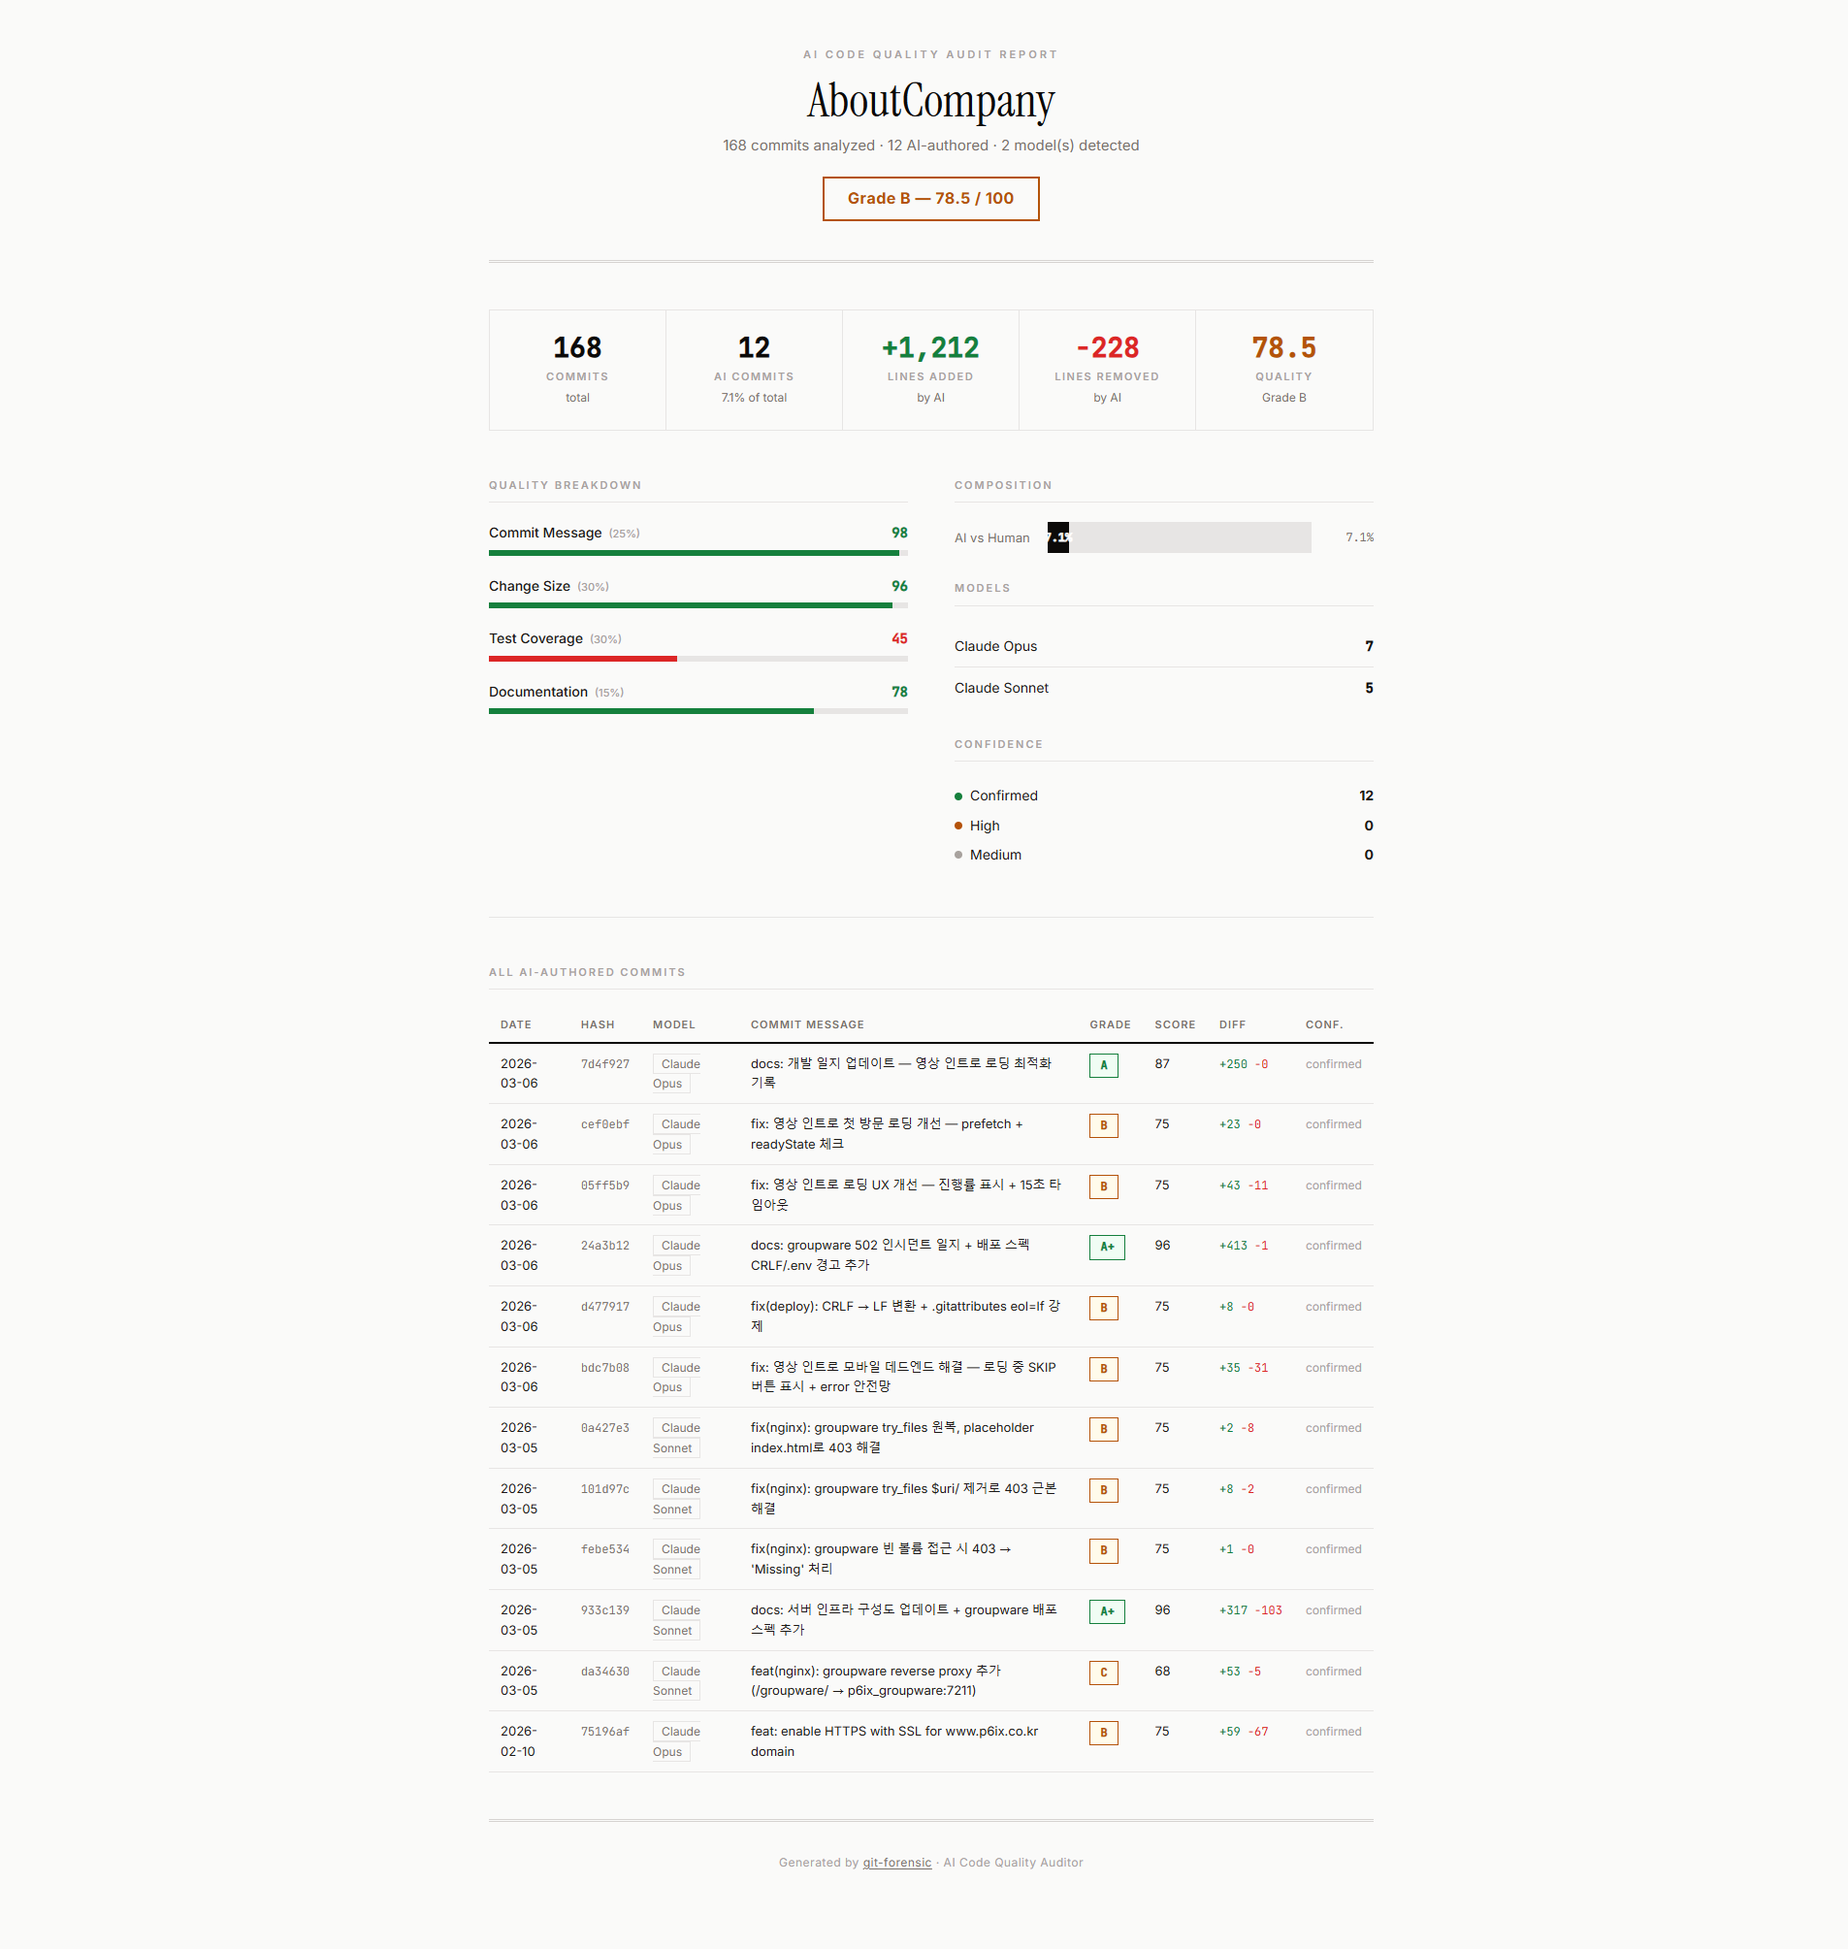
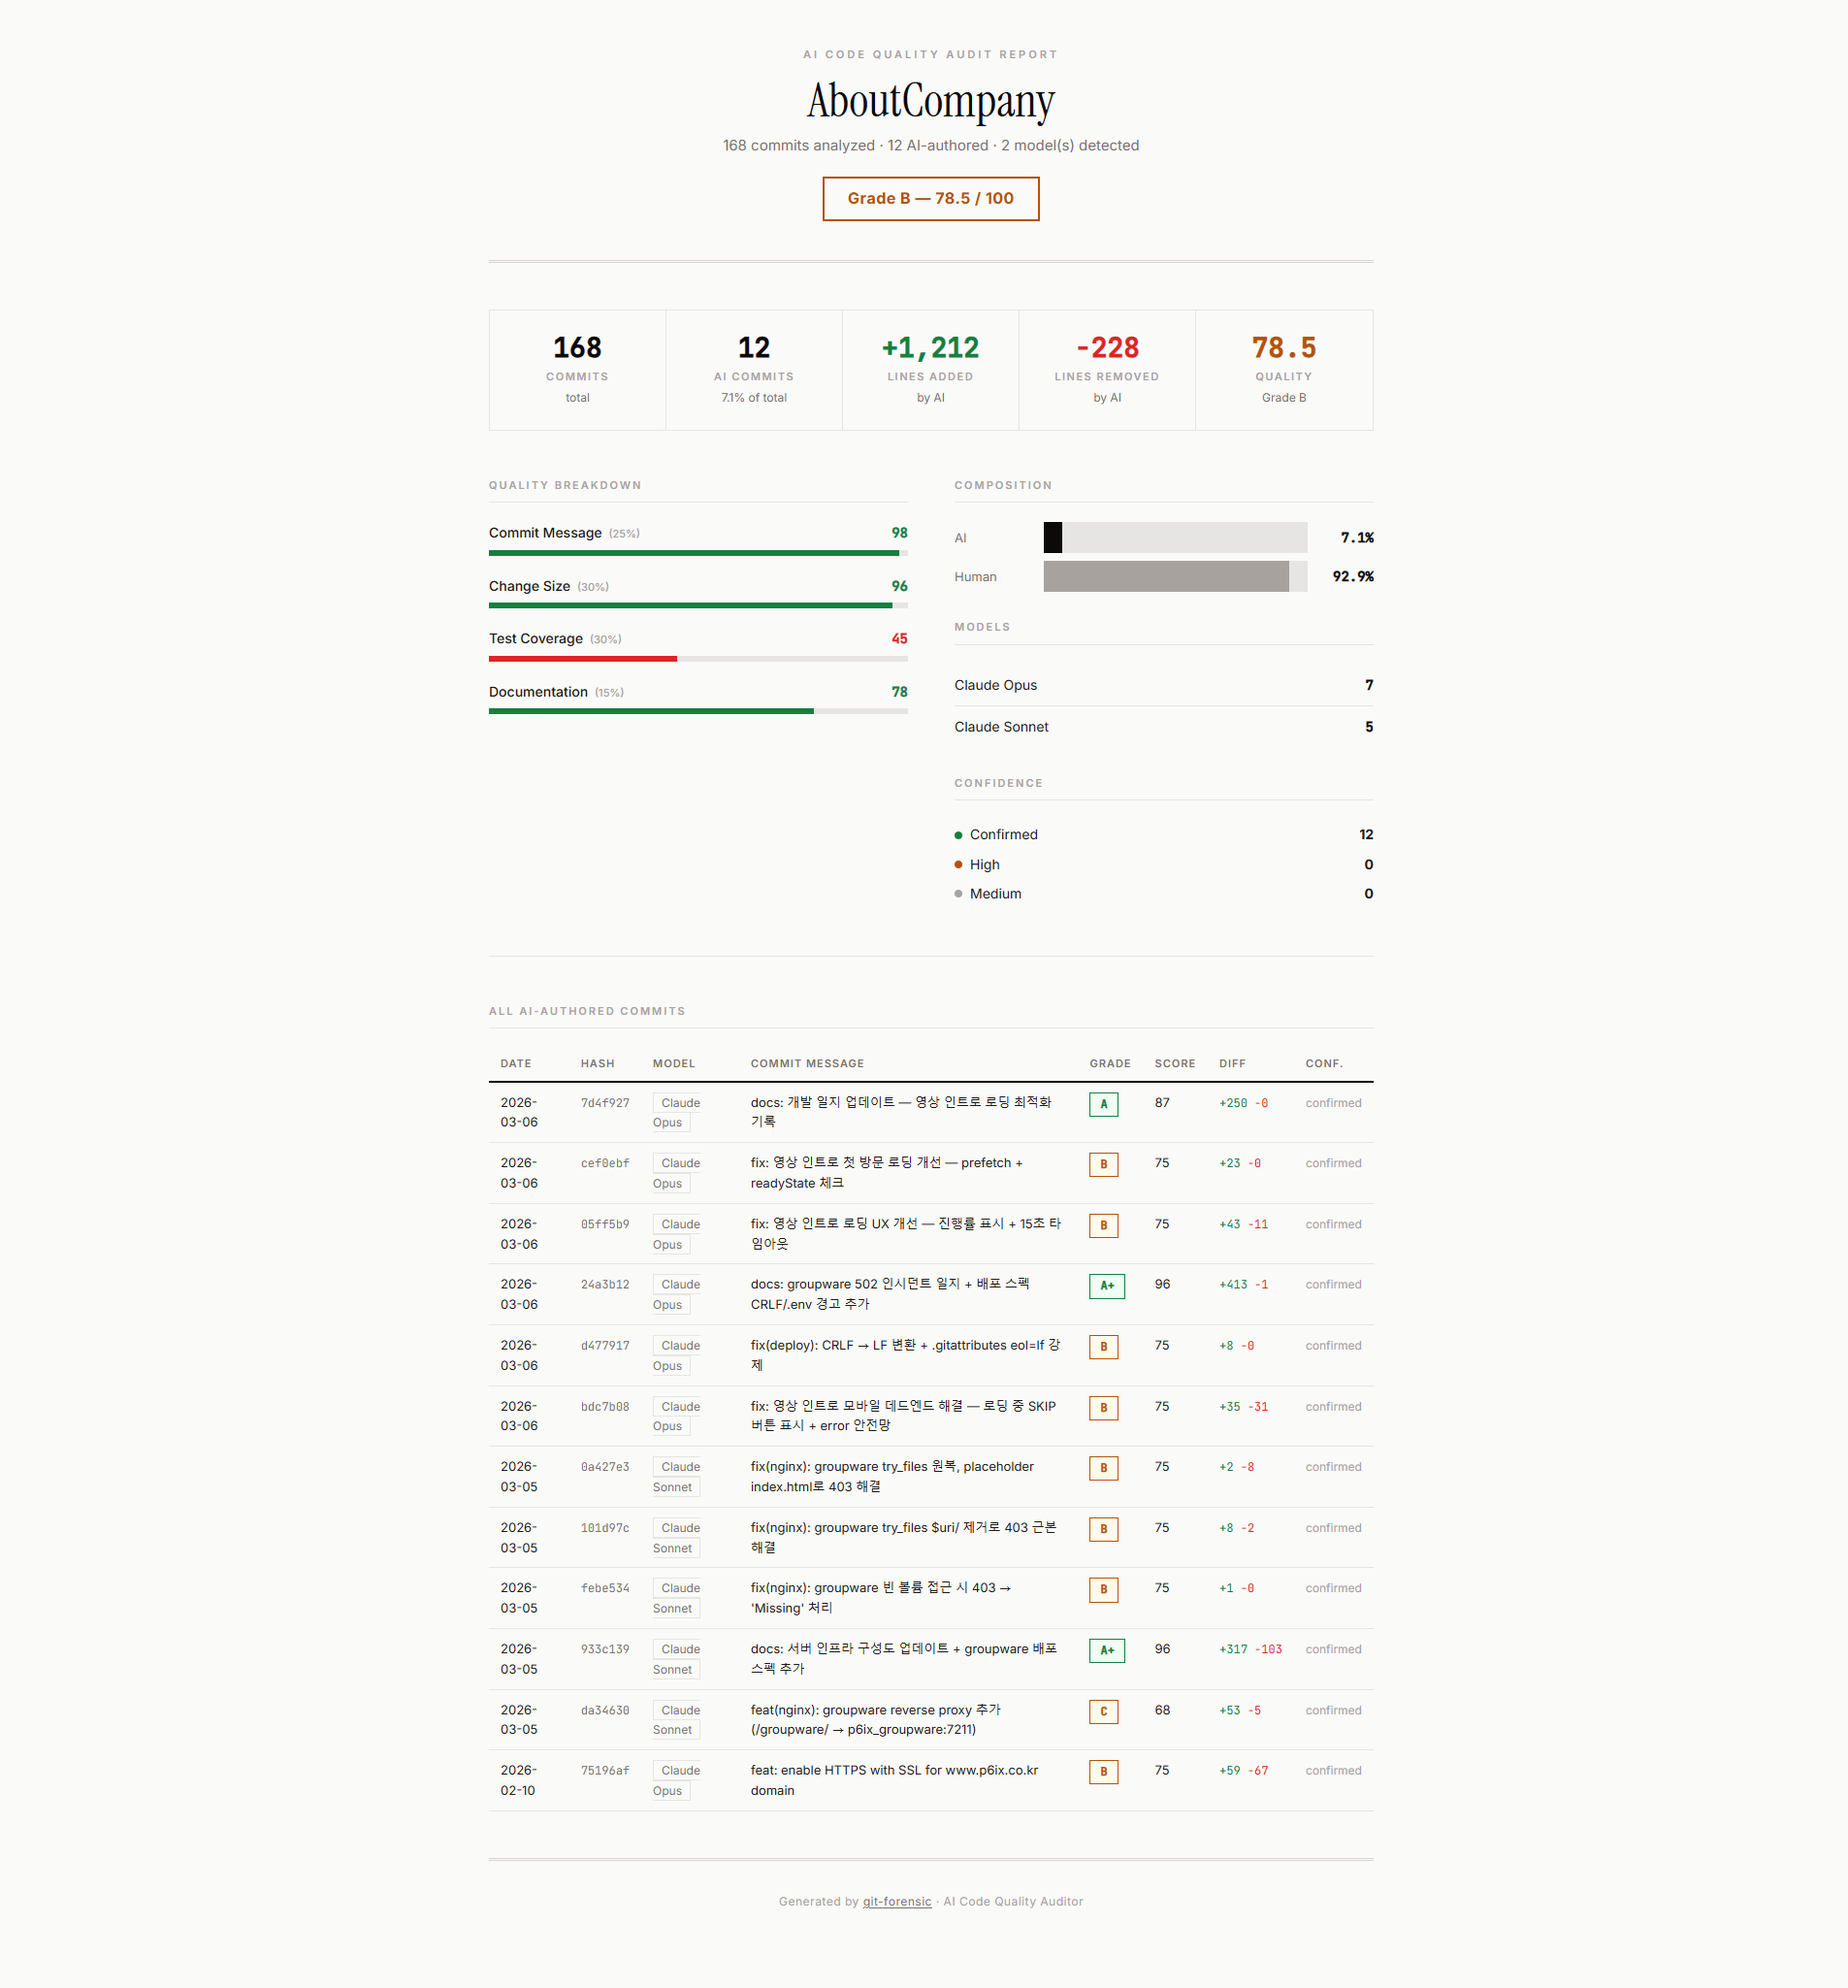
fix: AI vs Human bar — percentage label outside bar for small ratios

diff --git a/report.html b/report.html
@@ -393,12 +393,23 @@
     </div>
     <div>
       <div class="section-label">Composition</div>
-      <div class="comp-row">
-        <span class="comp-label">AI vs Human</span>
-        <div class="comp-bar-wrap">
-          <div class="comp-fill" style="width:8%">7.1%</div>
+      <div style="display:flex;align-items:center;gap:12px">
+        <span class="comp-label">AI</span>
+        <div style="flex:1;position:relative">
+          <div class="comp-bar-wrap">
+            <div class="comp-fill" style="width:7.1%"></div>
+          </div>
         </div>
-        <span style="font-family:'JetBrains Mono',monospace;font-size:12px;color:var(--text-secondary);min-width:48px;text-align:right">7.1%</span>
+        <span style="font-family:'JetBrains Mono',monospace;font-size:14px;font-weight:600;color:var(--ink);min-width:56px;text-align:right">7.1%</span>
+      </div>
+      <div style="display:flex;align-items:center;gap:12px;margin-top:8px">
+        <span class="comp-label">Human</span>
+        <div style="flex:1;position:relative">
+          <div class="comp-bar-wrap">
+            <div style="height:100%;background:var(--text-tertiary);width:92.9%"></div>
+          </div>
+        </div>
+        <span style="font-family:'JetBrains Mono',monospace;font-size:14px;font-weight:600;color:var(--ink);min-width:56px;text-align:right">92.9%</span>
       </div>
 
       <div class="section-label" style="margin-top:28px">Models</div>

diff --git a/src/git_forensic/html_report.py b/src/git_forensic/html_report.py
@@ -430,12 +430,23 @@ def generate_html(
     </div>
     <div>
       <div class="section-label">Composition</div>
-      <div class="comp-row">
-        <span class="comp-label">AI vs Human</span>
-        <div class="comp-bar-wrap">
-          <div class="comp-fill" style="width:{max(ai_ratio, 8)}%">{ai_ratio}%</div>
+      <div style="display:flex;align-items:center;gap:12px">
+        <span class="comp-label">AI</span>
+        <div style="flex:1;position:relative">
+          <div class="comp-bar-wrap">
+            <div class="comp-fill" style="width:{max(ai_ratio, 3)}%"></div>
+          </div>
         </div>
-        <span style="font-family:'JetBrains Mono',monospace;font-size:12px;color:var(--text-secondary);min-width:48px;text-align:right">{ai_ratio}%</span>
+        <span style="font-family:'JetBrains Mono',monospace;font-size:14px;font-weight:600;color:var(--ink);min-width:56px;text-align:right">{ai_ratio}%</span>
+      </div>
+      <div style="display:flex;align-items:center;gap:12px;margin-top:8px">
+        <span class="comp-label">Human</span>
+        <div style="flex:1;position:relative">
+          <div class="comp-bar-wrap">
+            <div style="height:100%;background:var(--text-tertiary);width:{100 - ai_ratio}%"></div>
+          </div>
+        </div>
+        <span style="font-family:'JetBrains Mono',monospace;font-size:14px;font-weight:600;color:var(--ink);min-width:56px;text-align:right">{100 - ai_ratio}%</span>
       </div>
 
       <div class="section-label" style="margin-top:28px">Models</div>
